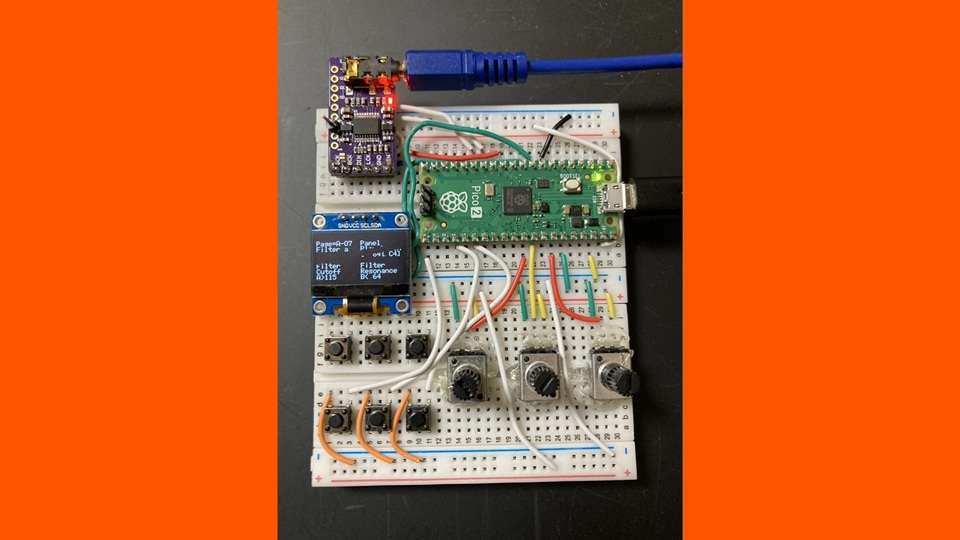
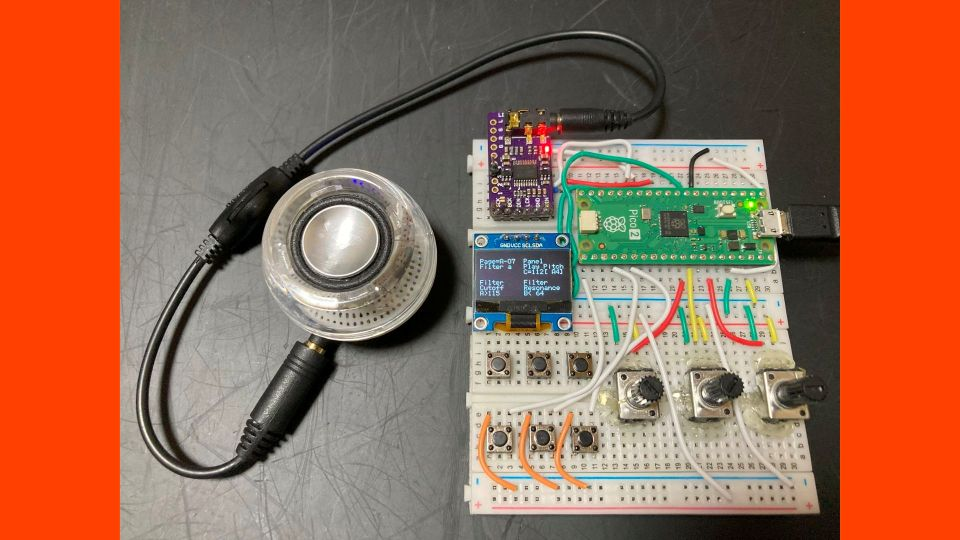
PRA32-U2 with Panel: Change the image showing an example of construction by a breadboard

diff --git a/PRA32-U2-Change-History.md b/PRA32-U2-Change-History.md
@@ -1,5 +1,8 @@
 ## Digital Synth PRA32-U2 Change History
 
+- v1.2.1 (2025-**-**):
+    - PRA32-U2 with Panel: Change the image showing an example of construction by a breadboard
+    - Tested with Arduino-Pico version 5.1.0
 - v1.2.0 (2025-09-21):
     - Lower the Amp's output level
     - Change the value 127 of Osc 1 Shape to mean 128
